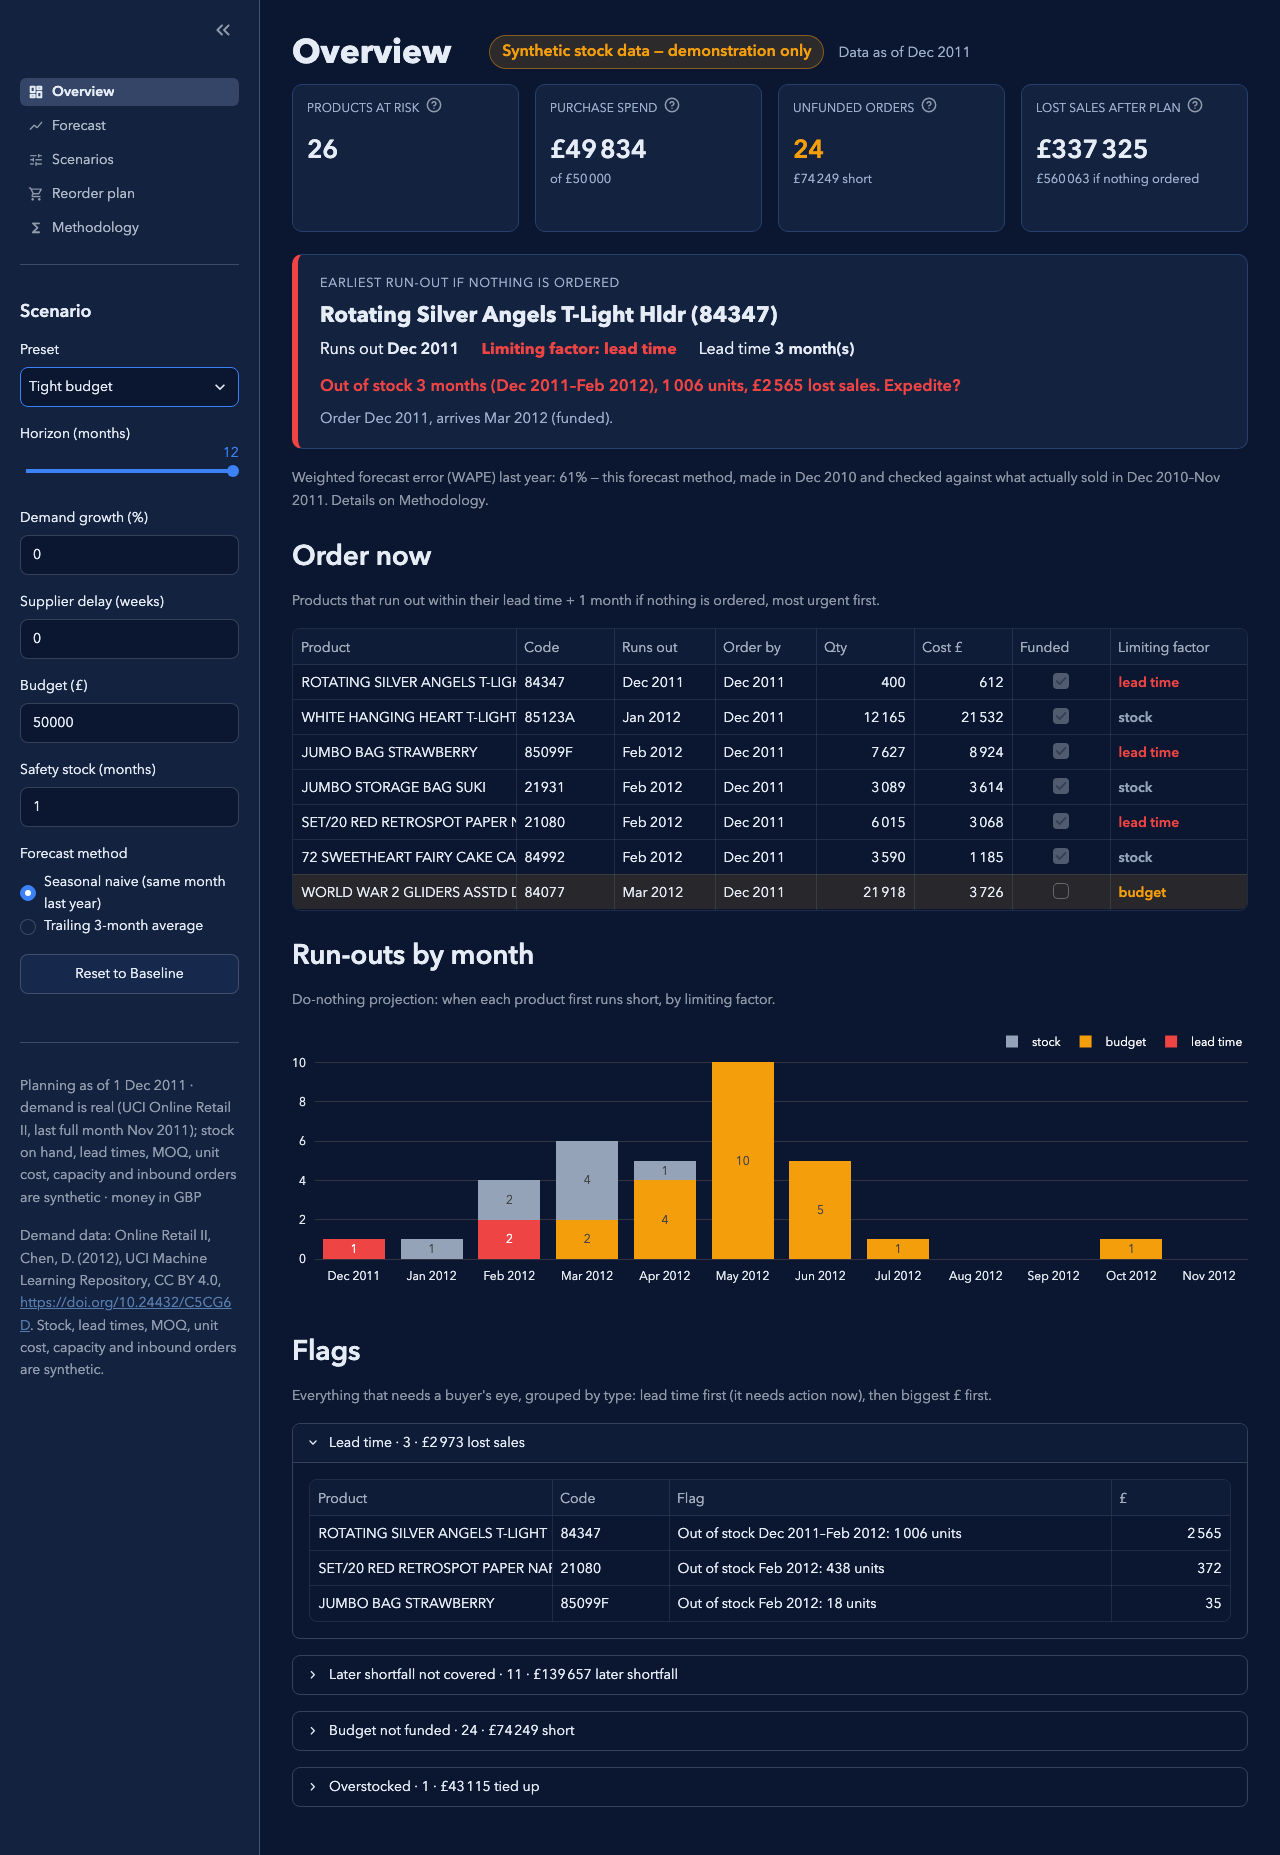
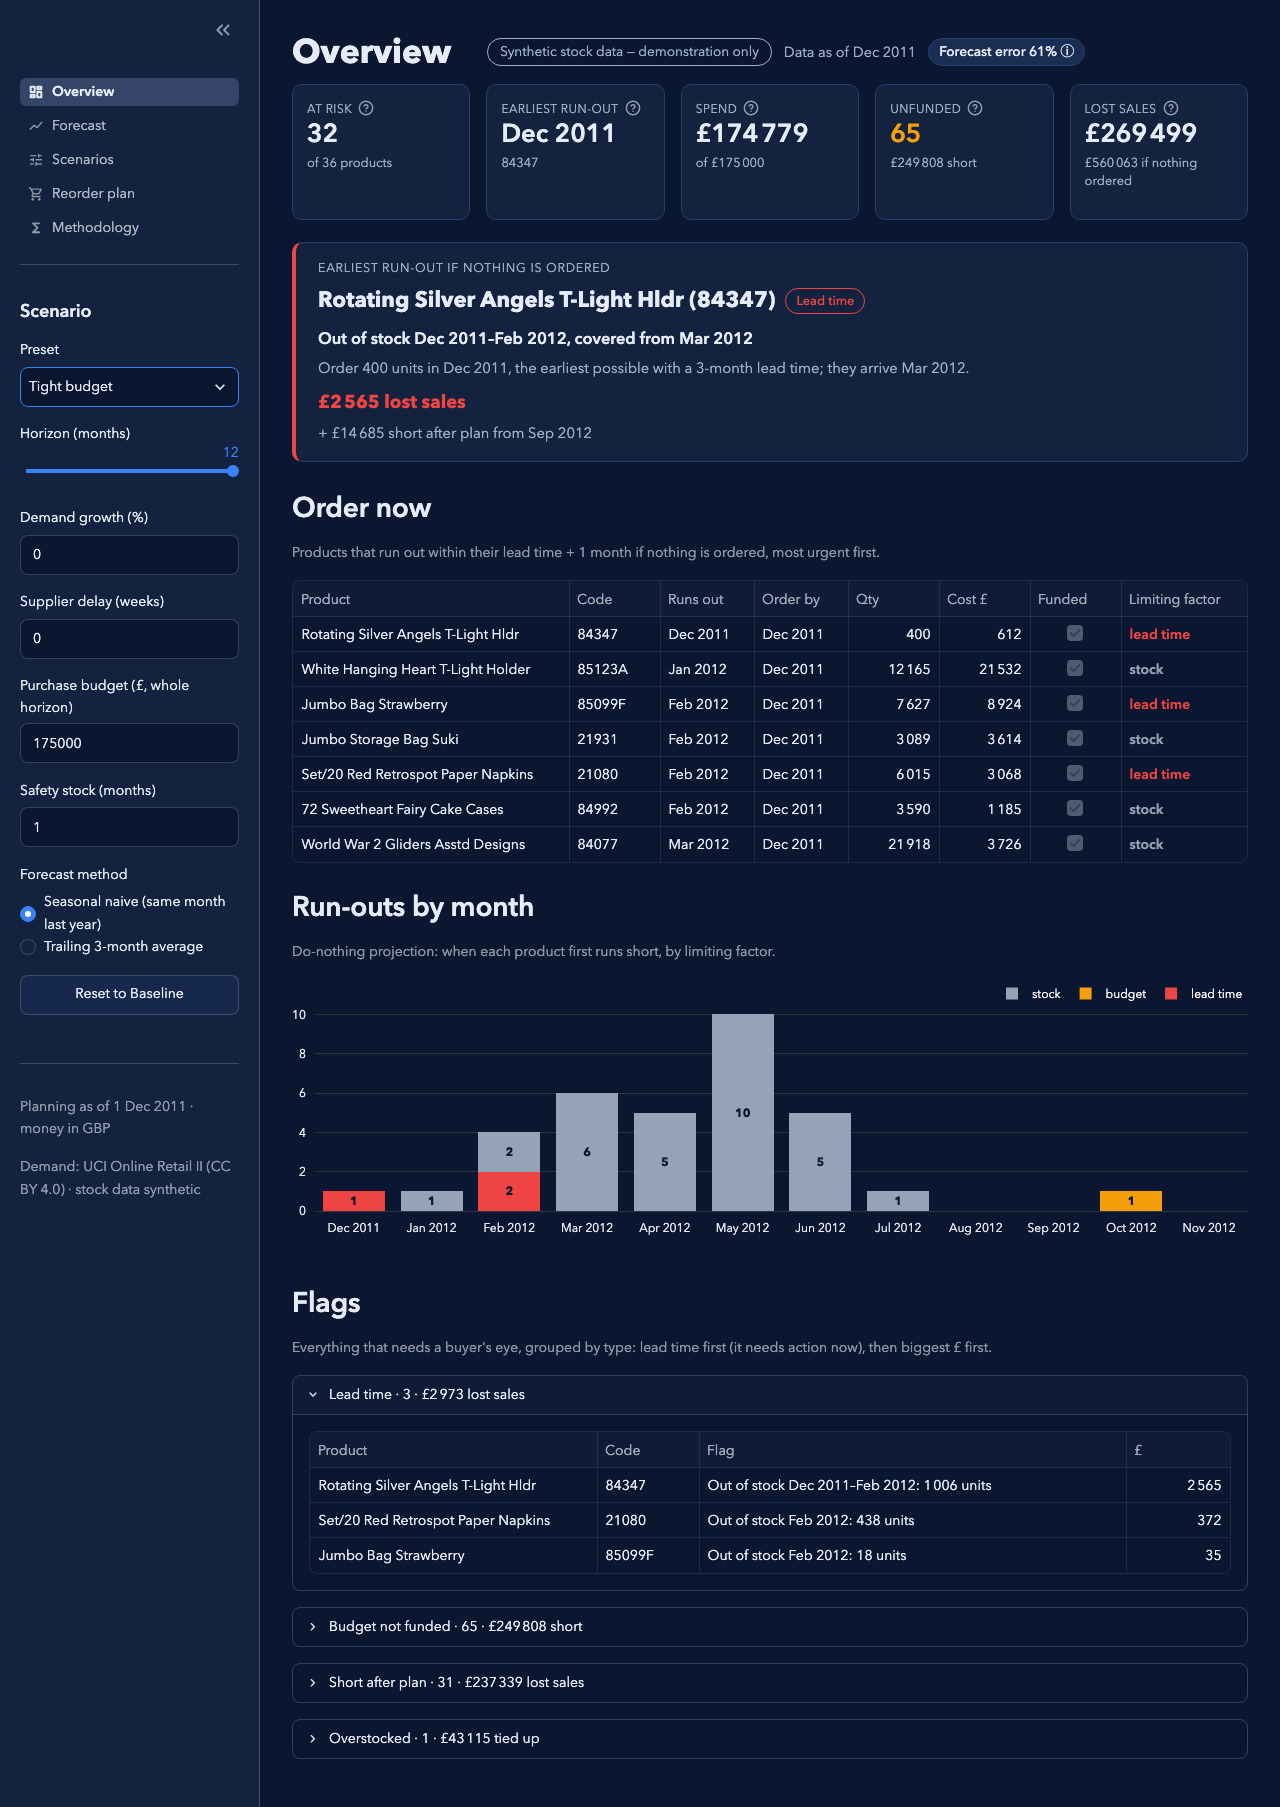
[inventory-runout-planner/PART-B] Review fixes: budget text, factor-coloured chip, capacity £ not double counted, card money lines, month-end stock, right-aligned tables, blue funded, equal cards; screenshots

diff --git a/assets/style.css b/assets/style.css
@@ -44,7 +44,7 @@ h1 { font-size: 2.1rem !important; padding-bottom: 0.2rem !important; }
   border: 1px solid var(--border);
   border-radius: 10px;
   padding: 12px 14px;
-  min-height: 118px;
+  min-height: 136px;
 }
 [data-testid="stMetricLabel"] { color: var(--muted); min-height: 1.5em; }
 [data-testid="stMetricLabel"] p {
@@ -75,7 +75,8 @@ h1 { font-size: 2.1rem !important; padding-bottom: 0.2rem !important; }
 }
 .runout-hero .eyebrow { color: var(--muted); font-size: 0.78rem; letter-spacing: 0.06em; text-transform: uppercase; }
 .runout-hero .product { font-size: 22px; font-weight: 650; margin: 4px 0 8px; display: flex; gap: 10px; align-items: center; flex-wrap: wrap; }
-.runout-hero .factor-chip { border-color: var(--red); color: var(--red); background: none; cursor: default; font-size: 0.8rem; }
+.runout-hero .factor-chip { background: none; cursor: default; font-size: 0.8rem; }
 .runout-hero .status { font-size: 1.02rem; font-weight: 600; }
 .runout-hero .reason { color: var(--muted); margin-top: 4px; font-size: 0.92rem; }
 .runout-hero .cost { color: var(--red); font-weight: 650; font-size: 1.15rem; margin-top: 8px; }
+.runout-hero .later { color: var(--muted); font-size: 0.92rem; margin-top: 4px; }

diff --git a/app_pages/overview.py b/app_pages/overview.py
@@ -36,6 +36,19 @@ if earliest is not None and earliest.runout_month:
     else:
         status = f"Runs out {month(earliest.runout_month)} if nothing is ordered"
         lost = earliest.lost_sales_after_plan_gbp
+    later = ""
+    if earliest.later_shortfall_month:
+        later = (
+            f'<div class="later">+ {gbp(earliest.later_shortfall_gbp)} short after plan from '
+            f"{month(earliest.later_shortfall_month)}</div>"
+            if gap is not None
+            else f'<div class="later">Short after plan from {month(earliest.later_shortfall_month)}</div>'
+        )
+    cost = (
+        f'<div class="cost">{gbp(lost)} lost sales</div>'
+        if lost > 0
+        else '<div class="later">No lost sales with the plan</div>'
+    )
     if order is None:
         action = next(
             (f for f in earliest.flags if f.startswith("Capacity")),
@@ -54,14 +67,15 @@ if earliest is not None and earliest.runout_month:
     else:
         action = f"Order {number(order.qty)} units by {month(order.order_month)}: not funded within the budget."
     chip = earliest.limiting_factor.capitalize()
+    chip_color = theme.FACTOR_COLORS[earliest.limiting_factor]
     st.markdown(
         '<div class="runout-hero">'
         '<div class="eyebrow">Earliest run-out if nothing is ordered</div>'
         f'<div class="product">{html.escape(earliest.description.title())} ({html.escape(earliest.stock_code)})'
-        f' <span class="chip factor-chip">{chip}</span></div>'
+        f' <span class="chip factor-chip" style="color: {chip_color}; border-color: {chip_color}">{chip}</span></div>'
         f'<div class="status">{html.escape(status)}</div>'
         f'<div class="reason">{html.escape(action)}</div>'
-        f'<div class="cost">{gbp(lost)} lost sales</div></div>',
+        f"{cost}{later}</div>",
         unsafe_allow_html=True,
     )
 else:
@@ -104,7 +118,7 @@ st.dataframe(
     width="stretch",
     height=35 * len(order_now) + 38,
     column_config={
-        "Product": st.column_config.TextColumn(width="medium"),
+        "Product": st.column_config.TextColumn(width=260),
         "Code": st.column_config.TextColumn(width="small"),
         "Qty": RIGHT,
         "Cost £": RIGHT,
@@ -181,8 +195,11 @@ for p in result.products:
             )
     for flag in p.flags:
         if flag.startswith("Capacity"):
+            counted = (p.stockout.lost_sales_gbp if p.stockout else 0.0) + (
+                p.later_shortfall_gbp
+            )
             built["Capacity blocks order"].append(
-                (p, flag, p.lost_sales_after_plan_gbp)
+                (p, flag, round(max(p.lost_sales_after_plan_gbp - counted, 0.0), 2))
             )
         elif flag.startswith("Short"):
             built["Short after plan"].append((p, flag, p.later_shortfall_gbp))
@@ -206,7 +223,7 @@ for name in sorted(
             pd.DataFrame(
                 [
                     {
-                        "Product": p.description,
+                        "Product": p.description.title(),
                         "Code": p.stock_code,
                         "Flag": text,
                         "£": number(value),
@@ -219,7 +236,7 @@ for name in sorted(
             width="stretch",
             height=35 * len(rows) + 38,
             column_config={
-                "Product": st.column_config.TextColumn(width="medium"),
+                "Product": st.column_config.TextColumn(width=260),
                 "Code": st.column_config.TextColumn(width="small"),
                 "Flag": st.column_config.TextColumn(width="large"),
                 "£": RIGHT,

diff --git a/app_pages/forecast.py b/app_pages/forecast.py
@@ -2,7 +2,7 @@ import pandas as pd
 import streamlit as st
 from inventory_runout_planner.fmt import gbp, month, number
 from inventory_runout_planner.models import MonthRow, PlannerData, ScenarioResult
-from inventory_runout_planner.planner import backtest
+from inventory_runout_planner.planner import backtest, month_key
 from inventory_runout_planner.ui import theme
 from inventory_runout_planner.ui.state import product_label
 from plotly.subplots import make_subplots
@@ -34,6 +34,7 @@ st.caption(
 history = data.history[p.stock_code]
 error = backtest(data, result.scenario.method).overall_pct / 100
 forecast_x = [f"{r.month}-01" for r in p.months]
+month_end_x = [f"{month_key(t + 2)}-01" for t in range(len(p.months))]
 figure = make_subplots(
     rows=2,
     cols=1,
@@ -72,7 +73,7 @@ figure.add_scatter(
     col=1,
 )
 figure.add_scatter(
-    x=forecast_x,
+    x=month_end_x,
     y=[r.closing for r in p.months],
     name="Stock, do nothing",
     line={"color": theme.RED, "dash": "dash", "width": 2},
@@ -80,18 +81,18 @@ figure.add_scatter(
     col=1,
 )
 figure.add_scatter(
-    x=forecast_x,
+    x=month_end_x,
     y=[r.closing for r in p.plan_months],
     name="Stock, with the plan",
     line={"color": theme.BLUE, "width": 3},
     row=2,
     col=1,
 )
-for r in p.plan_months:
+for start, end, r in zip(forecast_x, month_end_x, p.plan_months, strict=True):
     if r.unmet:
         figure.add_vrect(
-            x0=f"{r.month}-01",
-            x1=f"{r.month}-28",
+            x0=start,
+            x1=end,
             fillcolor=theme.RED,
             opacity=0.12,
             line_width=0,
@@ -122,12 +123,12 @@ figure.update_yaxes(rangemode="tozero", row=2, col=1)
 figure.update_xaxes(
     dtick="M2",
     tickformat="%b %Y",
-    range=[f"{data.history_months[-6]}-01", f"{p.months[-1].month}-15"],
+    range=[f"{data.history_months[-6]}-01", month_end_x[-1]],
 )
 st.plotly_chart(figure, width="stretch")
 st.caption(
     f"Shaded band = forecast × (1 ± {error:.0%}), the weighted forecast error (WAPE) of this method last year, "
-    "floored at 0. Red months below = unmet demand even with the plan."
+    "floored at 0. Stock is shown at the end of each month; red months below = unmet demand even with the plan."
 )
 
 if p.orders:
@@ -140,7 +141,13 @@ else:
     )
 
 
-def table(rows: list[MonthRow]) -> pd.DataFrame:
+NUMBERS = {
+    column: st.column_config.TextColumn(alignment="right") for column in COLUMNS[1:]
+}
+
+
+def table(rows: list[MonthRow]) -> "pd.io.formats.style.Styler":
+    """Month-by-month rows; zeros greyed so the numbers that matter stand out."""
     return pd.DataFrame(
         [
             [
@@ -155,7 +162,7 @@ def table(rows: list[MonthRow]) -> pd.DataFrame:
             for r in rows
         ],
         columns=COLUMNS,
-    )
+    ).style.map(lambda v: f"color: {theme.MUTED}" if v == "0" else "")
 
 
 st.subheader("Projection if nothing is ordered")
@@ -167,6 +174,7 @@ st.dataframe(
     hide_index=True,
     width="stretch",
     height=35 * len(p.months) + 38,
+    column_config=NUMBERS,
 )
 if p.plan_months != p.months:
     with st.expander("Projection with the plan (every funded order)"):
@@ -175,6 +183,7 @@ if p.plan_months != p.months:
             hide_index=True,
             width="stretch",
             height=35 * len(p.plan_months) + 38,
+            column_config=NUMBERS,
         )
 elif p.orders:
     st.caption(

diff --git a/tests/inventory-runout-planner/part-b/test_qa_change4_ui.py b/tests/inventory-runout-planner/part-b/test_qa_change4_ui.py
@@ -205,11 +205,11 @@ def hero(at: AppTest) -> dict[str, str]:
         cls: html.unescape(strip_tags(m.group(1)))
         for cls, m in (
             (cls, re.search(rf'class="{cls}">(.*?)</div>', block))
-            for cls in ("product", "status", "reason", "cost")
+            for cls in ("product", "status", "reason", "cost", "later")
         )
         if m
     }
-    parts["chips"] = "|".join(re.findall(r'class="chip[^"]*">([^<]*)<', block))
+    parts["chips"] = "|".join(re.findall(r'class="chip[^"]*"[^>]*>([^<]*)<', block))
     return parts
 
 
@@ -354,7 +354,17 @@ def test_runout_card_matches_core(case: str, real: PlannerData) -> None:
     assert card["chips"] == p.limiting_factor.capitalize(), card
     assert card["status"] == expected_status(p), (case, card)
     lost = p.stockout.lost_sales_gbp if p.stockout else p.lost_sales_after_plan_gbp
-    assert card["cost"] == f"{gbp(lost)} lost sales", (case, card)
+    if lost > 0:
+        assert card["cost"] == f"{gbp(lost)} lost sales", (case, card)
+    else:
+        assert "cost" not in card, (case, card)
+    if p.later_shortfall_month and p.stockout:
+        assert (
+            f"+ {gbp(p.later_shortfall_gbp)} short after plan from {month(p.later_shortfall_month)}"
+            in page
+        ), (case, card)
+    elif p.later_shortfall_month:
+        assert f"Short after plan from {month(p.later_shortfall_month)}" in page
     if p.order is not None and p.order.funded:
         assert number(p.order.qty) in card["reason"]
         assert month(p.order.arrival_month) in card["reason"]
@@ -600,7 +610,11 @@ def test_card_stock_limited(tmp_path: Path, monkeypatch: pytest.MonkeyPatch) -> 
     assert card["chips"] == "Stock"
     assert card["status"] == "Runs out Jan 2012 if nothing is ordered"
     assert "200" in card["reason"] and "Jan 2012" in card["reason"]
-    assert card["cost"] == f"{gbp(p.lost_sales_after_plan_gbp)} lost sales"
+    assert (
+        p.lost_sales_after_plan_gbp == p.later_shortfall_gbp
+    )  # every loss is a later shortfall
+    assert "cost" not in card
+    assert card["later"] == "No lost sales with the plan"
     assert "Out of stock" not in main_text(at)
 
 

diff --git a/app_pages/scenarios.py b/app_pages/scenarios.py
@@ -13,7 +13,7 @@ from inventory_runout_planner.ui.state import run_scenario
 result: ScenarioResult = st.session_state["result"]
 directory: str = st.session_state["data_dir"]
 LEVERS = {
-    "Baseline": "Today's plan: no growth, suppliers on time, £100 000 budget, 1 month safety stock.",
+    "Baseline": f"Today's plan: no growth, suppliers on time, {gbp(PRESETS['Baseline'].budget_gbp)} budget for the horizon, 1 month safety stock.",
     "Peak season +25%": "Demand 25 % above last year in every month.",
     "Supplier delay +3 weeks": "Every supplier and every open inbound order arrives 3 weeks later.",
     "Tight budget": "Half the purchase budget.",

diff --git a/src/inventory_runout_planner/ui/theme.py b/src/inventory_runout_planner/ui/theme.py
@@ -71,7 +71,7 @@ def styled(frame: pd.DataFrame) -> "pd.io.formats.style.Styler":
             lambda v: (
                 f"color: {AMBER}; font-weight: 600"
                 if v == "Not funded"
-                else f"color: {MUTED}"
+                else f"color: {BLUE}"
             ),
             subset=["Status"],
         ).apply(
